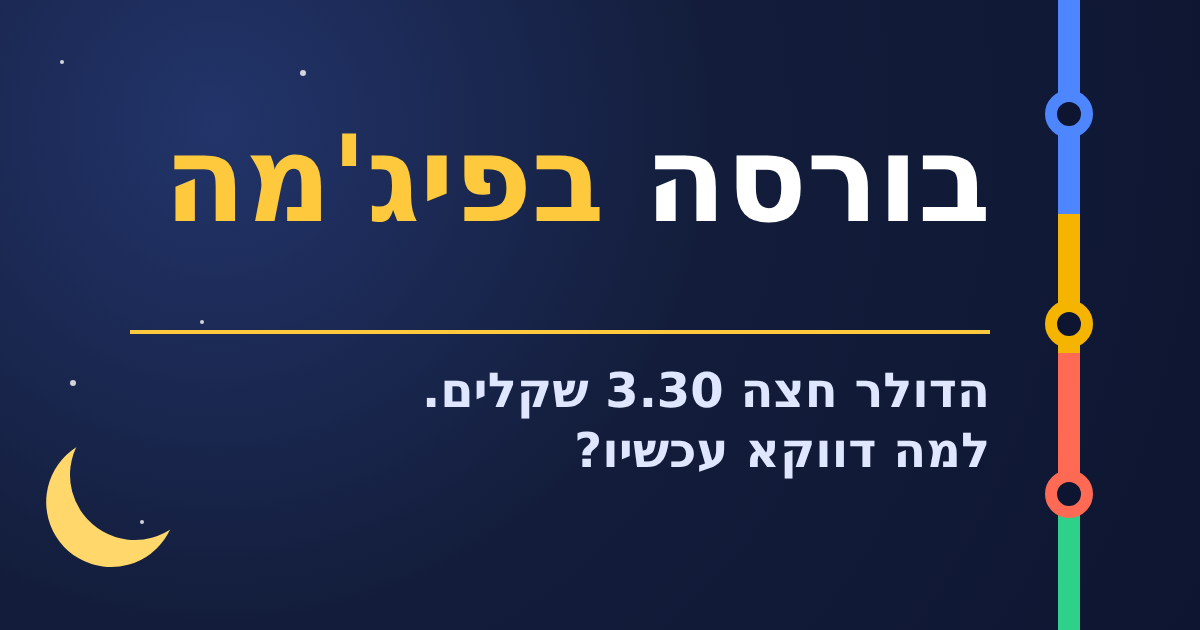
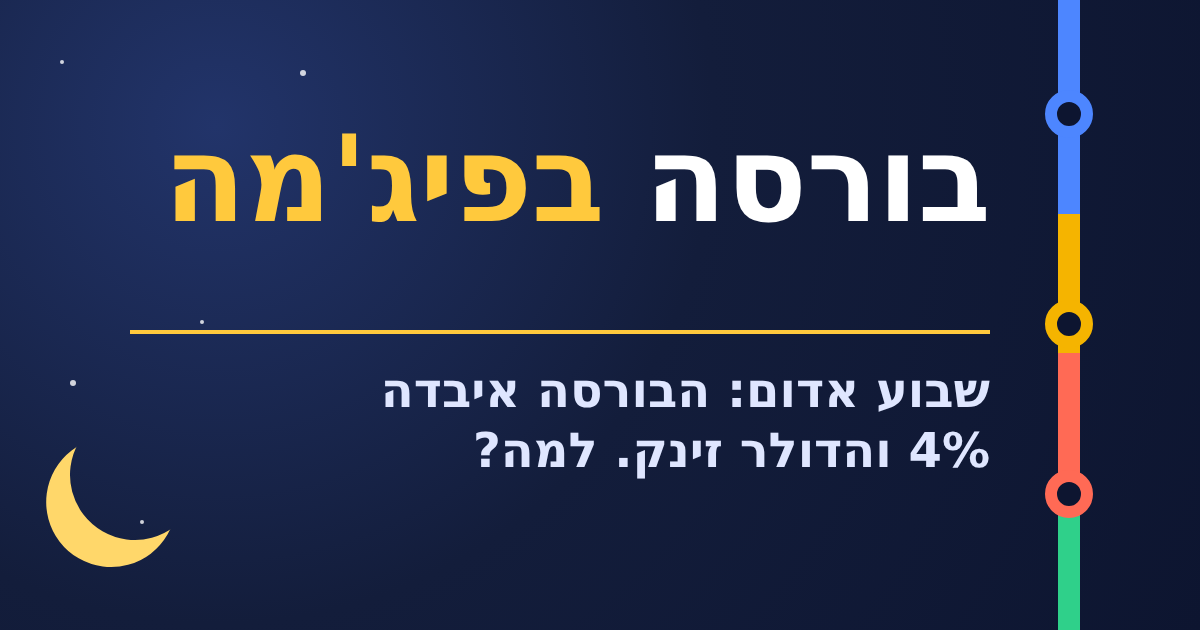
סקירת שווקים 20.11.2026
Claude-Session: https://claude.ai/code/session_019YX1Z7femH3DmcDBs54Y9h

Changed region(s): [[0.3083, 0.573, 0.8325, 0.754]]

diff --git a/index.html b/index.html
@@ -6,14 +6,14 @@
 <meta name="apple-mobile-web-app-title" content="בורסה בפיג'מה">
 <meta name="apple-mobile-web-app-capable" content="yes">
 <title>בורסה בפיג'מה</title>
-<meta name="description" content="אנתרופיק נכנסה לבורסה בהנפקה הגדולה בהיסטוריה, אבל הזינוק בוול סטריט נמחק והזהב ממשיך לרדת.">
+<meta name="description" content="מכירה עולמית במניות השבבים והבינה המלאכותית הגיעה לכאן, והשקל נחלש לפני החלטת הריבית ביום שני.">
 <meta property="og:type" content="article">
 <meta property="og:site_name" content="בורסה בפיג'מה">
 <meta property="og:locale" content="he_IL">
 <meta property="og:url" content="https://skirat-shvakim.github.io/">
-<meta property="og:title" content="הדולר חצה 3.30 שקלים. למה דווקא עכשיו?">
-<meta property="og:description" content="אנתרופיק נכנסה לבורסה בהנפקה הגדולה בהיסטוריה, אבל הזינוק בוול סטריט נמחק והזהב ממשיך לרדת.">
-<meta property="og:image" content="https://skirat-shvakim.github.io/og.png?v=1911">
+<meta property="og:title" content="שבוע אדום: הבורסה איבדה 4% והדולר זינק. למה?">
+<meta property="og:description" content="מכירה עולמית במניות השבבים והבינה המלאכותית הגיעה לכאן, והשקל נחלש לפני החלטת הריבית ביום שני.">
+<meta property="og:image" content="https://skirat-shvakim.github.io/og.png?v=2011">
 <meta property="og:image:width" content="1200">
 <meta property="og:image:height" content="630">
 <meta name="twitter:card" content="summary_large_image">
@@ -199,7 +199,7 @@ button:focus-visible,input:focus-visible,summary:focus-visible,a:focus-visible{o
       <svg viewBox="0 0 40 40" aria-hidden="true"><rect width="40" height="40" rx="11" fill="#131d3b"/><circle cx="26.5" cy="11.5" r="6" fill="#ffd76a"/><circle cx="29.3" cy="9.6" r="5.3" fill="#131d3b"/><path d="M6 31 L13.5 24 L20 26 L32.5 17.5" fill="none" stroke="#4d86ff" stroke-width="3.4" stroke-linecap="round" stroke-linejoin="round"/><circle cx="13.5" cy="24" r="3" fill="#131d3b" stroke="#f5b400" stroke-width="2.3"/><circle cx="32.5" cy="17.5" r="3" fill="#131d3b" stroke="#ff6a55" stroke-width="2.3"/><circle cx="9" cy="9" r=".8" fill="#fff"/><circle cx="16" cy="6.5" r=".6" fill="#fff"/></svg>
       <span class="bt"><span class="b1">בורסה</span> <span class="b2">בפיג'מה</span></span>
     </a>
-    <span class="date">יום חמישי · 19.11</span>
+    <span class="date">יום שישי · 20.11</span>
     <button type="button" class="menu" id="menuBtn" aria-controls="nav" aria-expanded="false" aria-label="תפריט"><span></span><span></span><span></span></button>
   </header>
 
@@ -212,13 +212,13 @@ button:focus-visible,input:focus-visible,summary:focus-visible,a:focus-visible{o
 <main class="route">
   <section class="card hero" id="hero" data-nav="בשורה התחתונה">
     <div class="meta"><span class="rt">⏱ 30 שניות לעיקר · 3 דקות להכול</span></div>
-    <span class="mood">השקל תחת לחץ</span>
-    <h1>הדולר חצה 3.30 שקלים, והבורסה בתל אביב ירדה</h1>
-    <p class="sub">אנתרופיק נכנסה לבורסה בהנפקה הגדולה בהיסטוריה, אבל הזינוק בוול סטריט נמחק והזהב ממשיך לרדת.</p>
+    <span class="mood">שבוע אדום</span>
+    <h1>שבוע אדום: הבורסה בתל אביב איבדה 4%, הדולר ב-3.33</h1>
+    <p class="sub">מכירה עולמית במניות השבבים והבינה המלאכותית הגיעה לכאן, והשקל נחלש לפני החלטת הריבית ביום שני.</p>
     <ul class="bottom">
-      <li>הדולר עבר 3.30 שקלים לראשונה מאוקטובר 2025. ה<button class="term" data-t="rep">יציג</button>: 3.282.</li>
-      <li><button class="term" data-t="ta125">ת״א 125</button> ירד כ-1.1%, על רקע חשש פוליטי ופער הריביות.</li>
-      <li>אנתרופיק גייסה כ-81 מיליארד דולר, אבל הזינוק בנאסד״ק נמחק.</li>
+      <li><button class="term" data-t="ta125">ת״א 125</button> ירד 4.3% השבוע. הבנקים והבנייה נפגעו הכי חזק.</li>
+      <li>הדולר: <button class="term" data-t="rep">יציג</button> 3.33 שקלים, השיא של 19 חודשים.</li>
+      <li>באסיה מניות השבבים צנחו, ואנתרופיק ירדה ביום המסחר השני שלה.</li>
     </ul>
     <button type="button" class="share" data-share>שתפו את הסקירה בוואטסאפ</button>
   </section>
@@ -226,32 +226,33 @@ button:focus-visible,input:focus-visible,summary:focus-visible,a:focus-visible{o
   <section class="card me" id="me" data-nav="מה זה אומר עליי">
     <h2>מה זה אומר עליי</h2>
     <ul>
-      <li><b>חופשה בחו״ל:</b> הדולר עלה כ-18% מהשפל לפני חצי שנה. כל דולר לחופשה עולה עכשיו הרבה יותר שקלים.</li>
-      <li><b>מוצרים מיובאים:</b> דולר יקר עלול לייקר מוצרים מחו״ל, מאלקטרוניקה ועד רכב.</li>
-      <li><b>משכנתא:</b> ביום שני בנק ישראל מחליט על הריבית. הורדה תוזיל את הפריים, אבל הדולר החזק מקשה עליו.</li>
+      <li><b>חופשה בחו״ל:</b> לפני שבוע הדולר עלה 3.20 שקלים, היום 3.33. 1,000 דולר עולים עכשיו כ-130 שקל יותר.</li>
+      <li><b>פנסיה והשתלמות:</b> במסלול מנייתי החיסכון כנראה ירד השבוע. לחיסכון של 20 שנה, שבוע אחד הוא תנודה קטנה.</li>
+      <li><b>משכנתא:</b> ביום שני בנק ישראל מחליט על הריבית. הדולר החזק עלול לגרום לו לחכות עם הורדה.</li>
     </ul>
   </section>
 
   <section class="card" id="numbers" data-nav="המספרים">
     <h2>המספרים</h2>
     <div class="tiles">
-      <div class="t"><span><button class="term" data-t="ta125">ת״א 125</button></span><b>≈3,804</b><span class="chg d">▼ 1.1%</span><span class="ctx">ירידה רחבה בכל המדדים</span></div>
-      <div class="t"><span><button class="term" data-t="sp500">S&amp;P 500</button> · במהלך המסחר</span><b>7,293</b><span class="chg d">▼ 0.4%</span><span class="ctx">מחק עלייה של 1%</span></div>
-      <div class="t"><span>נאסד״ק · במהלך המסחר</span><b>24,443</b><span class="chg u">▲ 0.1%</span><span class="ctx">מחק זינוק של כמעט 2%</span></div>
-      <div class="t"><span>דולר / שקל · <button class="term" data-t="rep">יציג</button></span><b>3.282</b><span class="chg u">▲ 0.6%</span><span class="ctx hot">חצה 3.30 במהלך היום</span></div>
-      <div class="t"><span>נפט ברנט</span><b>$92.7</b><span class="chg u">▲ 0.8%</span><span class="ctx">יציב סביב 92 דולר</span></div>
-      <div class="t"><span>זהב</span><b>$3,700</b><span class="chg d">▼ 1.1%</span><span class="ctx hot">שפל חדש של יותר משנה</span></div>
+      <div class="t"><span><button class="term" data-t="ta125">ת״א 125</button> · נעילה</span><b>3,753</b><span class="chg d">▼ 4.3% בשבוע</span><span class="ctx hot">ת״א 35 ירד היום 1.5%</span></div>
+      <div class="t"><span><button class="term" data-t="sp500">S&amp;P 500</button> · במהלך המסחר</span><b>7,139</b><span class="chg d">▼ 0.5%</span><span class="ctx">בדרך ליום ירידות שביעי</span></div>
+      <div class="t"><span>נאסד״ק · במהלך המסחר</span><b>23,547</b><span class="chg d">▼ 1.4%</span><span class="ctx">השבבים גוררים למטה</span></div>
+      <div class="t"><span>דולר / שקל · <button class="term" data-t="rep">יציג</button></span><b>3.330</b><span class="chg u">▲ 1.3%</span><span class="ctx hot">שיא של 19 חודשים</span></div>
+      <div class="t"><span>נפט ברנט</span><b>$88.6</b><span class="chg d">▼ 3.7%</span><span class="ctx">הנפט מהמפרץ חוזר לזרום</span></div>
+      <div class="t"><span>זהב</span><b>$3,580</b><span class="chg d">▼ 2.4%</span><span class="ctx hot">שפל של 14 חודשים</span></div>
     </div>
     <details class="adv">
       <summary>עוד נתונים, למתקדמים</summary>
       <div class="tiles">
-        <div class="t"><span>יורו / שקל · יציג</span><b>3.60</b><span class="ctx">קרוב לשיא של שנה</span></div>
-        <div class="t"><span><button class="term" data-t="yield">תשואת אג״ח</button> ארה״ב, 10 שנים</span><b>5.10%</b><span class="chg u">▲ 0.03</span><span class="ctx">ממשיכה לטפס</span></div>
+        <div class="t"><span>יורו / שקל</span><b>&gt;3.65</b><span class="ctx">השקל איבד כ-3% בשבוע</span></div>
+        <div class="t"><span><button class="term" data-t="yield">תשואת אג״ח</button> ארה״ב, 10 שנים</span><b>4.99%</b><span class="chg d">▼ 0.06</span><span class="ctx">ירדה מעט, סביב 5%</span></div>
         <div class="t"><span>תשואת אג״ח ישראל, 10 שנים</span><b>—</b><span class="ctx">לא מצאנו נתון אמין היום</span></div>
-        <div class="t"><span>ביטקוין</span><b>≈$63,000</b><span class="ctx">יציב, ליד שפל של 3 שנים</span></div>
+        <div class="t"><span><button class="term" data-t="vix">מדד הפחד VIX</button></span><b>≈30</b><span class="chg u">▲ 4%</span><span class="ctx hot">הגבוה מאז מרץ</span></div>
+        <div class="t"><span>ביטקוין</span><b>$61,380</b><span class="chg d">▼ 0.9%</span><span class="ctx">ליד שפל של 3 שנים</span></div>
       </div>
     </details>
-    <p class="note">וול סטריט, נפט וזהב: נתונים מהשעות הראשונות של המסחר בניו יורק (לא נעילה). ת״א 125: שינוי לפי ynet, הרמה מחושבת ולא אומתה. שערי המטבע הם השערים היציגים של בנק ישראל.</p>
+    <p class="note">וול סטריט, נפט, זהב וביטקוין: נתונים מהשעה הראשונה של המסחר בניו יורק (לא נעילה). ת״א 125: נעילה היום ושינוי שבועי, לפי ביזפורטל (השינוי היומי לא פורסם; ת״א 35 ירד היום 1.5%). הדולר: השער היציג של בנק ישראל. היורו: שער במהלך היום.</p>
   </section>
 
   <section class="card pick" id="stocks" data-nav="המניות שלי">
@@ -268,15 +269,15 @@ button:focus-visible,input:focus-visible,summary:focus-visible,a:focus-visible{o
 
   <section class="card" id="story" data-nav="הסיפור של היום" data-fold>
     <h2>הסיפור של היום</h2>
-    <p class="teaser">הדולר חצה 3.30 שקלים, כי בארה״ב מדברים על העלאת ריבית ובישראל על הורדה.</p>
+    <p class="teaser">מכירה בהולה של מניות שבבים באסיה גררה את העולם, והדולר עלה על החשש מריבית גבוהה בארה״ב.</p>
     <div class="fold-body">
-      <p>הדולר עבר היום 3.30 שקלים, לראשונה מאוקטובר 2025. הסיבה המרכזית היא <button class="term" data-t="gap">פער הריביות</button>: הפד רומז על העלאה, ובנק ישראל על הורדה. החשש שלא תקום ממשלה מוסיף ל<button class="term" data-t="risk">פרמיית הסיכון</button> של ישראל, ומוסדיים קונים דולרים ל<button class="term" data-t="hedge">גידור</button>.</p>
-      <p>בוול סטריט זה היה יום ה<button class="term" data-t="ipo">הנפקה</button> של אנתרופיק. היא תומחרה ב-83 דולר למניה, מעל הטווח המתוכנן, וגייסה כ-81 מיליארד דולר, שיא כל הזמנים. בבוקר הנאסד״ק זינק כמעט 2%, אבל הזינוק נמחק כשתשואות האג״ח עלו ל-5.1%.</p>
+      <p>היום מדדי טאיוואן, יפן וקוריאה צנחו ביותר מ-5%. משקיעים חוששים שההשקעה העצומה ב<button class="term" data-t="ai">בינה מלאכותית</button> לא תחזיר את עצמה. אנבידיה ירדה שוב כ-5%, למרות שההכנסות שלה הוכפלו. אנתרופיק ירדה ביום השני שלה בבורסה, אבל עדיין מעל מחיר ה<button class="term" data-t="ipo">הנפקה</button>.</p>
+      <p>בתל אביב ת״א 35 ירד היום 1.5% והשלים ירידה של 4.4% בשבוע. הבנקים ירדו 6% והבנייה כמעט 10%. הדולר זינק ל-3.33, כי בארה״ב מצפים ל<button class="term" data-t="hike">העלאת ריבית</button> בדצמבר, ומוסדיים קונים דולרים ל<button class="term" data-t="hedge">גידור</button>.</p>
       <h3 class="subh">הזווית הגיאופוליטית</h3>
       <div class="geo-in">
-        <div class="item"><span class="tag">שקל</span><h3>הפוליטיקה נכנסה לשער הדולר</h3><p>השוק חושש שאייזנקוט לא ירכיב ממשלה עד 6.12, ושיהיו בחירות נוספות. אסטרטגים מעריכים שהקמת ממשלה עשויה להחזיר את הדולר לכיוון 3 שקלים.</p></div>
-        <div class="item"><span class="tag">סחר</span><h3>טראמפ, שי ופוטין נפגשו, בלי פריצת דרך</h3><p>פגישה משולשת נדירה בסין: נשק גרעיני, אוקראינה ואיראן. לפי הדיווחים, הושג מעט. הפסקת האש במלחמת המכסים עם סין פוקעת ב-10 בינואר.</p></div>
-        <div class="item"><span class="tag">נפט</span><h3>המפרץ בוער, הנפט כמעט לא זז</h3><p>תקיפות איראניות בבסיסים אמריקאיים ופגיעות במכליות ליד הורמוז נמשכות. ובכל זאת ברנט נשאר סביב 92 דולר, כי השוק מעריך שהאספקה תימשך.</p></div>
+        <div class="item"><span class="tag">נפט</span><h3>הורמוז: תקיפות נמשכות, הנפט יורד</h3><p>איראן ממשיכה לתקוף מכליות כמעט כל יום. ובכל זאת, לפי רויטרס, המשלוחים מהמפרץ חזרו כמעט לרמה שלפני המלחמה. ברנט ירד היום לכ-89 דולר.</p></div>
+        <div class="item"><span class="tag">ביטחון</span><h3>טראמפ שוקל תקיפה נוספת באיראן</h3><p>לפי חדשות 12, טראמפ בוחן תקיפה נוספת בתיאום עם ישראל, אבל לא ממהר להחליט. הערב הוא מקיים מסיבת עיתונאים בבית הלבן.</p></div>
+        <div class="item"><span class="tag">ריבית</span><h3>הפד מאותת: כל האפשרויות פתוחות</h3><p>בכיר בפד אמר שכל האפשרויות על השולחן נגד האינפלציה. השוק מעריך סיכוי גבוה להעלאת ריבית בדצמבר, וזה מחזק את הדולר בכל העולם.</p></div>
       </div>
     </div>
   </section>
@@ -284,19 +285,19 @@ button:focus-visible,input:focus-visible,summary:focus-visible,a:focus-visible{o
 
   <section class="card think" id="think" data-nav="נקודה למחשבה" data-fold>
     <h2>נקודה למחשבה</h2>
-    <div class="item teaser"><h3>האם בנק ישראל יוריד ריבית כשהדולר זינק?</h3><p>אינפלציה של 1.1% תומכת בהורדה. אבל דולר יקר מייקר יבוא, ובנק ישראל עלול להעדיף לחכות.</p></div>
+    <div class="item teaser"><h3>4% בשבוע: הרבה או מעט?</h3><p>תל אביב ירדה 4.4% השבוע, טאיוואן כ-17% בחמישה ימים. כאן יש מעט מניות שבבים, ולכן הנזק קטן יותר.</p></div>
     <div class="fold-body">
-      <div class="item"><h3>למה הזינוק בנאסד״ק נמחק?</h3><p>תשואות האג״ח עלו ל-5.1% ומשקיעים מימשו רווחים. ההתלהבות מאנתרופיק לא הספיקה מול החשש מריבית גבוהה.</p></div>
-      <div class="item"><h3>מה אם כולם טועים?</h3><p>כולם מדברים על דולר חזק. אבל אם תקום ממשלה והפד לא יעלה ריבית, הדולר עלול לרדת מהר כמו שעלה.</p></div>
+      <div class="item"><h3>יום שני רע לאנתרופיק: סימן רע?</h3><p>לא בהכרח. גם פייסבוק ואובר ירדו ביום המסחר השני שלהן. יומיים של מסחר לא מספרים הרבה על העתיד.</p></div>
+      <div class="item"><h3>מה אם כולם טועים?</h3><p>כולם מפחדים מבועת בינה מלאכותית. אבל ההכנסות של אנבידיה הוכפלו. אם הרווחים יימשכו, הירידות האלה עלולות להיראות בדיעבד מוגזמות.</p></div>
     </div>
   </section>
 
   <div class="learn">
     <section class="card word" id="word" data-nav="מונח היום">
       <h2>מונח היום</h2>
-      <p class="w">פער ריביות</p>
-      <p>ההבדל בין הריבית במדינה אחת לריבית במדינה אחרת. כסף נוטה לזרום למקום שבו הריבית גבוהה יותר.</p>
-      <p class="ex">דוגמה מהיום: בארה״ב הריבית 3.75%-4%, בישראל 3.25%. הפער מושך כסף לדולר, והדולר עבר היום 3.30 שקלים.</p>
+      <p class="w">מדד הפחד (VIX)</p>
+      <p>מדד שמראה כמה תנודות חדות משקיעים מצפים לראות בוול סטריט בחודש הקרוב. ככל שהוא גבוה, הפחד גדול יותר.</p>
+      <p class="ex">דוגמה מהיום: ה-VIX טיפס לכ-30, הרמה הגבוהה מאז מרץ. בימים רגועים הוא בדרך כלל מתחת ל-20.</p>
     </section>
   </div>
 
@@ -312,34 +313,31 @@ button:focus-visible,input:focus-visible,summary:focus-visible,a:focus-visible{o
       <li><time>23.11</time><span>החלטת הריבית של בנק ישראל: הורדה, או המתנה בגלל הדולר.</span></li>
     </ul>
     <div class="fold-body"><ul class="cal">
-      <li><time>מחר</time><span>יום המסחר השני של אנתרופיק: האם ההתלהבות תחזיק?</span></li>
-      <li><time>מחר</time><span>הדולר מול רף 3.30: האם השקל יתאושש?</span></li>
+      <li><time>הערב</time><span>מסיבת העיתונאים של טראמפ: האם יאמר משהו על איראן?</span></li>
+      <li><time>24.11</time><span>דוחות וורקדיי ואוטודסק: מבחן נוסף למניות התוכנה.</span></li>
       <li><time>6.12</time><span>המועד האחרון של אייזנקוט להרכבת ממשלה.</span></li>
-      <li><time>10.1</time><span>פקיעת הפסקת האש במלחמת המכסים בין ארה״ב לסין.</span></li>
+      <li><time>9.12</time><span>החלטת הריבית של הפד: השוק מצפה להעלאה.</span></li>
     </ul></div>
   </section>
 
   <section class="card src" id="sources" data-nav="מקורות" data-fold>
     <h2>מקורות</h2>
-    <p class="teaser">הסקירה מבוססת על 16 כתבות ממקורות בארץ ובעולם.</p>
+    <p class="teaser">הסקירה מבוססת על 13 כתבות ממקורות בארץ ובעולם.</p>
     <div class="fold-body">
     <p>
-      <a href="https://www.mako.co.il/news-money/2026_q4/Article-a8b27855874f1a1026.htm">mako – הדולר חצה את רף 3.30</a> ·
-      <a href="https://www.ynet.co.il/economy/article/sknq9qhagg">ynet – הדולר סביב 3.30, הבורסה יורדת</a> ·
-      <a href="https://mako.co.il/news-money/2026_q4/Article-922b955823fe1a1026.htm">mako – הדולר בשיא של שנה</a> ·
-      <a href="https://www.globes.co.il/news/article.aspx?did=1001564061">גלובס – המסחר היום, נפט וזהב</a> ·
-      <a href="https://www.ibtimes.com.au/wall-street-rally-fades-anthropic-ipo-debut-1878962">IBTimes – הראלי בוול סטריט דועך</a> ·
-      <a href="https://finance.yahoo.com/markets/live/stock-market-today-thursday-november-19-dow-sp-500-nasdaq-anthropic-ipo-live-141306032.html">Yahoo Finance – וול סטריט היום</a> ·
-      <a href="https://finance.yahoo.com/technology/live/anthropic-ipo-live-company-said-to-price-stock-at-83-begin-trading-thursday-212656452.html">Yahoo Finance – הנפקת אנתרופיק</a> ·
-      <a href="https://www.tipranks.com/news/tech-and-ai-stocks-rise-on-anthropics-nasdaq-debut">TipRanks – מניות הטכנולוגיה ביום ההנפקה</a> ·
-      <a href="https://www.newslooks.com/wall-street-rallies-as-anthropics-83-ipo-pricing-revives-ai-stocks/">NewsLooks (AP) – פתיחת המסחר</a> ·
-      <a href="https://www.trendingtopics.eu/anthropic-shares-105-dollars-nasdaq-debut/">Trending Topics – ציפיות לפתיחה</a> ·
-      <a href="https://pomegra.io/news/anthropic-ipo-ant-debuts-at-83-in-record-81b-listing">Pomegra – ההנפקה במספרים</a> ·
-      <a href="https://www.forbes.com/sites/fionariley/2026/11/19/anthropic-ipo-live-nasdaq-futures-jump-2-ahead-of-record-stock-debut/">Forbes – חוזים עתידיים לפני ההנפקה</a> ·
-      <a href="https://journalarta.com/en/2026/11/19/stock-market-today-nasdaq-rises-at-the-open-while-dow-holds-near-flat/">JournalArta – אג״ח, זהב וביטקוין</a> ·
-      <a href="https://www.cbsnews.com/news/trump-xi-putin-china-apec-summit/">CBS – לפני פגישת טראמפ, שי ופוטין</a> ·
-      <a href="https://www.aljazeera.com/news/2026/11/19/trump-meets-putin-and-xi-ahead-of-us-russia-china-trilateral-talks">Al Jazeera – הפגישה המשולשת</a> ·
-      <a href="https://stockanalysis.com/stocks/nvda/history/">StockAnalysis – מחירי המניות</a>
+      <a href="https://bizportal.co.il/capitalmarket/news/article/20049385">ביזפורטל – שבוע אדום בבורסה</a> ·
+      <a href="https://bizportal.co.il/forex/news/article/20049389">ביזפורטל – הדולר טיפס ל-3.33</a> ·
+      <a href="https://globes.co.il/news/article.aspx?did=1001564214">גלובס – המסחר היום</a> ·
+      <a href="https://www.stocktitan.net/articles/stock-market-today-live-november-20-2026">StockTitan – וול סטריט היום</a> ·
+      <a href="https://journalarta.com/en/2026/11/20/stock-market-today-dow-rises-0-39-while-nasdaq-drops-1-39-at-open/">JournalArta – פתיחת המסחר</a> ·
+      <a href="https://journalarta.com/en/2026/11/20/gold-price-today-bullion-drops-3-71-to-3530-75-in-broad-metals-and-equity-selloff/">JournalArta – זהב ומתכות</a> ·
+      <a href="https://247wallst.com/investing/2026/11/20/stock-market-today-anthropics-mega-ipo-sends-stocks-lower-for-a-second-day/">24/7 Wall St – אנתרופיק ביום השני</a> ·
+      <a href="https://www.5paisa.com/blog/crude-oil-price-today-20-november-2026">5paisa (רויטרס) – מחיר הנפט</a> ·
+      <a href="https://www.mitrade.com/insights/commodity-analysis/gold/gold-slides-below-3600-fed-pressure">Mitrade – זהב והפד</a> ·
+      <a href="https://oilprice.com/Latest-Energy-News/World-News/Iran-Steps-Up-Hormuz-Tanker-Attacks-as-Oil-Prices-Slide.html">OilPrice – התקיפות בהורמוז</a> ·
+      <a href="https://investinglive.com/news/trump-weighs-another-strike-on-iran-as-hormuz-shipping-risks-mount-returns-to-washington-after-overseas-trip">investingLive – טראמפ ואיראן</a> ·
+      <a href="https://stockanalysis.com/stocks/nvda/history/">StockAnalysis – מחירי המניות</a> ·
+      <a href="https://massive.com/">Massive – מחירי מניות במהלך היום</a>
     </p>
     </div>
   </section>
@@ -347,7 +345,7 @@ button:focus-visible,input:focus-visible,summary:focus-visible,a:focus-visible{o
 </main>
 
   <div class="sharefoot"><p>אהבת? שלח לחבר שמתחיל להתעניין בשוק</p><button type="button" class="share" data-share>שיתוף</button></div>
-  <p class="foot">הסקירה היא סיכום מידע וניתוח בלבד ואינה מהווה ייעוץ השקעות.<br>קרדיט: אדם שימקייביץ<br>עודכן: 19.11.2026 18:27</p>
+  <p class="foot">הסקירה היא סיכום מידע וניתוח בלבד ואינה מהווה ייעוץ השקעות.<br>קרדיט: אדם שימקייביץ<br>עודכן: 20.11.2026 18:30</p>
 </div>
 
 <div class="sheet" id="sheet" role="dialog" aria-modal="false" aria-labelledby="sh-t">
@@ -359,46 +357,47 @@ button:focus-visible,input:focus-visible,summary:focus-visible,a:focus-visible{o
 <script>
 {
   const STOCKS=[
-    {tk:"NVDA",name:"אנבידיה",price:"$150.96",chg:-2.9,week:[166.19,162.85,156.14,155.46,150.96],note:"נעילה אתמול, אחרי הדוח. היום עולה כ-2%-3% אחרי חמישה ימי ירידות."},
-    {tk:"AAPL",name:"אפל",price:"$353.04",chg:0.3,week:[354.88,356.27,352.78,351.91,353.04],note:"מחיר מאתמול. היום יורדת כ-1% בבוקר (לא אומת)."},
-    {tk:"MSFT",name:"מיקרוסופט",price:"$508.32",chg:0.4,week:[523.00,523.88,517.99,506.24,508.32],note:"נעילה אתמול. היום עולה כ-2.3% בבוקר, עם אווירת ההנפקה."},
-    {tk:"TSLA",name:"טסלה",price:"$386.11",chg:1.6,week:[397.45,390.22,379.74,380.11,386.11],note:"מחיר מאתמול; לא מצאנו נתון אמין להיום."},
-    {tk:"AMZN",name:"אמזון",price:"$257.89",chg:0.1,week:[266.17,267.44,266.66,257.75,257.89],note:"נעילה ב-17.11. משקיעה באנתרופיק; עלתה לפני הפתיחה היום (לא אומת)."},
-    {tk:"GOOGL",name:"גוגל (אלפבית)",price:"$283.09",chg:1.0,week:[295.77,283.72,280.30,283.09],note:"מחיר מאתמול. משקיעה באנתרופיק; עלתה לפני הפתיחה היום (לא אומת)."},
-    {tk:"META",name:"מטא",price:"$618.67",chg:-1.2,week:[641.70,626.41,618.67],note:"נעילה ב-17.11; לא מצאנו נתון עדכני יותר."},
-    {tk:"AVGO",name:"ברודקום",price:"$347.01",chg:-4.8,week:[319.48,331.98,345.22,364.36,347.01],note:"נעילה ב-13.11 בלבד; לא מצאנו נתון עדכני."},
-    {tk:"AMD",name:"AMD",price:"$503.41",chg:-0.2,week:[534.06,504.40,503.41],note:"נעילה ב-17.11. עלתה לפני הפתיחה היום (לא אומת)."},
-    {tk:"NFLX",name:"נטפליקס",price:null},
-    {tk:"PLTR",name:"פלנטיר",price:"$156.56",chg:-2.4,week:[160.39,156.56],note:"נעילה ב-17.11; לא מצאנו נתון עדכני יותר."},
-    {tk:"JPM",name:"ג׳יי.פי מורגן",price:"$346.19",chg:1.0,week:[342.08,342.07,343.39,342.82,346.19],note:"נעילה ב-13.11. היום דיווחה על מתקפת סייבר אצל ספקים, בלי פגיעה בשירות."},
-    {tk:"V",name:"ויזה",price:"$425.76",chg:1.3,week:[422.16,423.00,425.55,420.31,425.76],note:"נעילה ב-13.11 בלבד; לא מצאנו נתון עדכני."},
-    {tk:"KO",name:"קוקה-קולה",price:"$99.25",chg:1.9,week:[96.03,96.91,97.57,97.44,99.25],note:"נעילה ב-13.11 בלבד; לא מצאנו נתון עדכני."},
-    {tk:"TEVA",name:"טבע",price:null},
-    {tk:"CHKP",name:"צ׳ק פוינט",price:null},
+    {tk:"NVDA",name:"אנבידיה",price:"$138.17",chg:-5.3,week:[162.85,156.14,155.46,150.96,145.98],note:"במהלך המסחר היום. יום חמישי ברצף של ירידות, למרות דוח חזק."},
+    {tk:"AAPL",name:"אפל",price:"$349.21",chg:-0.9,week:[356.27,352.78,351.91,352.45,349.21],note:"נעילה אתמול. יציבה יחסית מול ירידות הטכנולוגיה."},
+    {tk:"MSFT",name:"מיקרוסופט",price:"$498.30",chg:-1.8,week:[523.88,517.99,506.24,508.29,498.30],note:"נעילה אתמול. לפני הפתיחה היום ירדה כ-3% (לא אומת)."},
+    {tk:"TSLA",name:"טסלה",price:"$361.59",chg:-3.4,week:[390.22,379.74,380.11,383.72,374.41],note:"במהלך המסחר היום, עם הירידות בטכנולוגיה."},
+    {tk:"AMZN",name:"אמזון",price:"$257.37",chg:-3.9,week:[266.66,257.75,257.89,267.74,257.37],note:"נעילה אתמול. משקיעה גדולה באנתרופיק, שירדה היום."},
+    {tk:"GOOGL",name:"גוגל (אלפבית)",price:"$272.66",chg:-3.5,week:[295.77,282.44,272.66],note:"נעילה אתמול. ירדה כ-8.7% בשבוע האחרון."},
+    {tk:"META",name:"מטא",price:"$596.22",chg:-3.3,week:[616.38,596.22],note:"נעילה אתמול. לפני הפתיחה היום ירדה כ-4% (לא אומת)."},
+    {tk:"AVGO",name:"ברודקום",price:"$346.65",chg:-2.1,week:[347.01,333.40,341.60,354.05,346.65],note:"נעילה אתמול. היום יורדת כ-4% עם מניות השבבים."},
+    {tk:"AMD",name:"AMD",price:"$489.19",chg:-7.7,week:[534.06,504.28,503.41,530.14,489.19],note:"נעילה אתמול, אחרי דוח של שורטיסט. היום יורדת שוב כ-4%."},
+    {tk:"NFLX",name:"נטפליקס",price:"$58.90",chg:0.8,week:[62.15,58.46,58.90],note:"במהלך המסחר היום. עולה מעט מול שוק יורד."},
+    {tk:"PLTR",name:"פלנטיר",price:"$153.68",chg:-1.9,week:[167.99,156.67,153.68],note:"נעילה אתמול. ירדה כ-24% בחודש האחרון."},
+    {tk:"JPM",name:"ג׳יי.פי מורגן",price:"$320.22",chg:-1.2,week:[346.19,324.11,320.22],note:"נעילה אתמול. ירדה כ-6.6% בשבוע."},
+    {tk:"V",name:"ויזה",price:"$402.25",chg:-3.1,week:[425.76,415.22,402.25],note:"נעילה אתמול. בלי חדשות מהותיות."},
+    {tk:"KO",name:"קוקה-קולה",price:"$97.03",chg:1.0,week:[96.09,97.03],note:"במהלך המסחר היום. מניה ״בטוחה״ עולה כשהטכנולוגיה יורדת."},
+    {tk:"TEVA",name:"טבע",price:"$38.54",chg:-8.7,week:[42.23,38.54],note:"נעילה אתמול. ירידה חדה; לא מצאנו לה סיבה רשמית."},
+    {tk:"CHKP",name:"צ׳ק פוינט",price:"$155.50",chg:1.0,week:[154.03,155.50],note:"נעילה אתמול. מהבודדות שעלו השבוע."},
     {tk:"NICE",name:"נייס",price:null},
     {tk:"WIX",name:"וויקס",price:null},
-    {tk:"MBLY",name:"מובילאיי",price:null},
-    {tk:"ESLT",name:"אלביט מערכות",price:null}
+    {tk:"MBLY",name:"מובילאיי",price:"$4.84",chg:-5.0,week:[5.09,4.84],note:"במהלך המסחר היום. ירדה כ-12% בשבוע."},
+    {tk:"ESLT",name:"אלביט מערכות",price:"$698.36",chg:-3.1,week:[720.53,698.36],note:"נעילה ב-18.11; לא מצאנו נתון עדכני יותר."}
   ];
   const GLOSSARY={
     ta125:["ת״א 125","מדד של 125 החברות הגדולות בבורסה בתל אביב. הוא מראה איך הבורסה המקומית התנהגה באופן כללי."],
     sp500:["S&P 500","מדד של 500 החברות הגדולות בארה״ב. הרבה קרנות פנסיה והשתלמות בישראל משקיעות בו."],
     rep:["שער יציג","שער הדולר הרשמי שבנק ישראל מפרסם פעם ביום, לפי המסחר בין הבנקים. בהמשך היום השער בפועל יכול להשתנות."],
-    gap:["פער ריביות","ההבדל בין הריבית בשתי מדינות. כסף נוטה לזרום למדינה עם הריבית הגבוהה יותר, וזה מחזק את המטבע שלה."],
-    risk:["פרמיית סיכון","התוספת שמשקיעים דורשים כדי להחזיק נכס מסוכן יותר. כשאי-הוודאות בישראל עולה, משקיעים מבקשים פיצוי, והשקל נחלש."],
+    vix:["מדד הפחד (VIX)","מדד שמראה כמה תנודות משקיעים מצפים לראות בוול סטריט בחודש הקרוב. מעל 30 נחשב פחד גבוה."],
+    ai:["בינה מלאכותית","תוכנות שלומדות מכמויות עצומות של מידע ויודעות לכתוב, לענות ולנתח. חברות משקיעות בה מאות מיליארדי דולרים בשבבים ובמרכזי נתונים."],
+    hike:["העלאת ריבית","כשהבנק המרכזי מייקר את הכסף כדי לבלום אינפלציה. הלוואות מתייקרות, ומניות נוטות לרדת."],
     hedge:["גידור","פעולה שמקטינה סיכון. קרנות פנסיה שמחזיקות מניות בחו״ל קונות או מוכרות דולרים כדי שתנודות המטבע לא יפגעו בחיסכון."],
     ipo:["הנפקה","הרגע שבו חברה פרטית מוכרת לראשונה מניות לציבור בבורסה. מאותו יום כל אחד יכול לקנות ולמכור את המניה שלה."],
     yield:["תשואת אג״ח","הריבית שמקבל מי שמלווה כסף לממשלה. כשהיא עולה, הלוואות ומשכנתאות נוטות להתייקר."]
   };
   const FAQ=[
-    ["למה הדולר עולה כל כך?","שלוש סיבות: הריבית בארה״ב גבוהה יותר וצפויה לעלות, חשש פוליטי בישראל, ומוסדיים שקונים דולרים ל<button class=\"term\" data-t=\"hedge\">גידור</button> כשמניות בחו״ל יורדות."],
-    ["כדאי לקנות דולרים עכשיו לחופשה?","אף אחד לא יודע לאן הדולר ילך. יש מי שקונה בהדרגה, בכמה פעמים, כדי לא להמר על רגע אחד. זו לא המלצה, רק דרך לחשוב על זה."],
-    ["כמה שווה אנתרופיק?","במחיר ההנפקה, 83 דולר למניה, השווי מוערך בכ-1.5 טריליון דולר (יש גם הערכות נמוכות יותר). היא גייסה כ-81 מיליארד, יותר מכל חברה לפניה."],
-    ["למה הזהב ממשיך לרדת?","זהב לא משלם ריבית. כשאג״ח אמריקאית נותנת יותר מ-5% בשנה, חלק מהמשקיעים מעדיפים אותה ומוכרים זהב."],
-    ["מה זה בעצם מדד?","סל של מניות שמראה את המגמה הכללית. למשל <button class=\"term\" data-t=\"sp500\">S&P 500</button> עוקב אחרי 500 החברות הגדולות בארה״ב. קרן מחקה מדד קונה את כל המניות שבו."]
+    ["למה תל אביב ירדה בגלל שבבים בטאיוואן?","הכסף בעולם מחובר. כשמשקיעים מפסידים במניות טכנולוגיה, הם מוכרים גם במקומות אחרים כדי להקטין סיכון. גם מניות שבבים מקומיות, כמו טאואר, נפגעו קשה השבוע."],
+    ["אחרי שבוע כזה, למשוך את החיסכון?","אנחנו לא נותנים המלצות. בעבר, מי שמכר בבהלה אחרי שבוע רע פספס לא פעם את ההתאוששות. שווה לבדוק אם המסלול מתאים למטרה ולטווח הזמן שלך."],
+    ["מה קורה עם המניה של אנתרופיק?","היא הונפקה ב-83 דולר ונסגרה ביום הראשון ב-97.17. היום, ביום השני, ירדה בין 5% ל-10% בשעות הראשונות, ועדיין מעל מחיר ה<button class=\"term\" data-t=\"ipo\">הנפקה</button>."],
+    ["הדולר ימשיך לעלות?","אף אחד לא יודע. ביום שני בנק ישראל מחליט על הריבית, ובדצמבר הפד. ההחלטות האלה, והפוליטיקה בארץ, יכריעו כנראה את הכיוון."],
+    ["מה ההבדל בין מניה לאג״ח?","מניה היא חלק קטן בבעלות על חברה. אג״ח היא הלוואה שנתת לחברה או למדינה, תמורת ריבית. מניות תנודתיות יותר, ובטווח הארוך הניבו בדרך כלל יותר."]
   ];
   const qa=([q,a])=>`<details><summary>${q}</summary><p>${a}</p></details>`;document.getElementById('faq').innerHTML=FAQ.slice(0,2).map(qa).join('');document.getElementById('faqMore').innerHTML=FAQ.slice(2).map(qa).join('');
-  const STOCK_NOTE="אנבידיה ומיקרוסופט: נעילת אתמול (18.11). אפל, טסלה וגוגל: מחיר מאתמול במהלך המסחר. אמזון, מטא, AMD ופלנטיר: נעילה ב-17.11. ברודקום, ג׳יי.פי מורגן, ויזה וקוקה-קולה: נעילה ב-13.11. הקו מראה עד 5 ימי מסחר אחרונים.";
+  const STOCK_NOTE="במהלך המסחר היום (20.11): אנבידיה, טסלה, נטפליקס, קוקה-קולה ומובילאיי. השאר: נעילת אתמול (19.11); אלביט: נעילה ב-18.11. הקו מראה עד 5 ימי מסחר אחרונים.";
 
   // ===== my stocks (choose up to 6, saved per device) =====
   const pills=document.getElementById('pills'),box=document.getElementById('stock'),chooser=document.getElementById('chooser'),opts=document.getElementById('opts'),find=document.getElementById('find'),editBtn=document.getElementById('editBtn');
